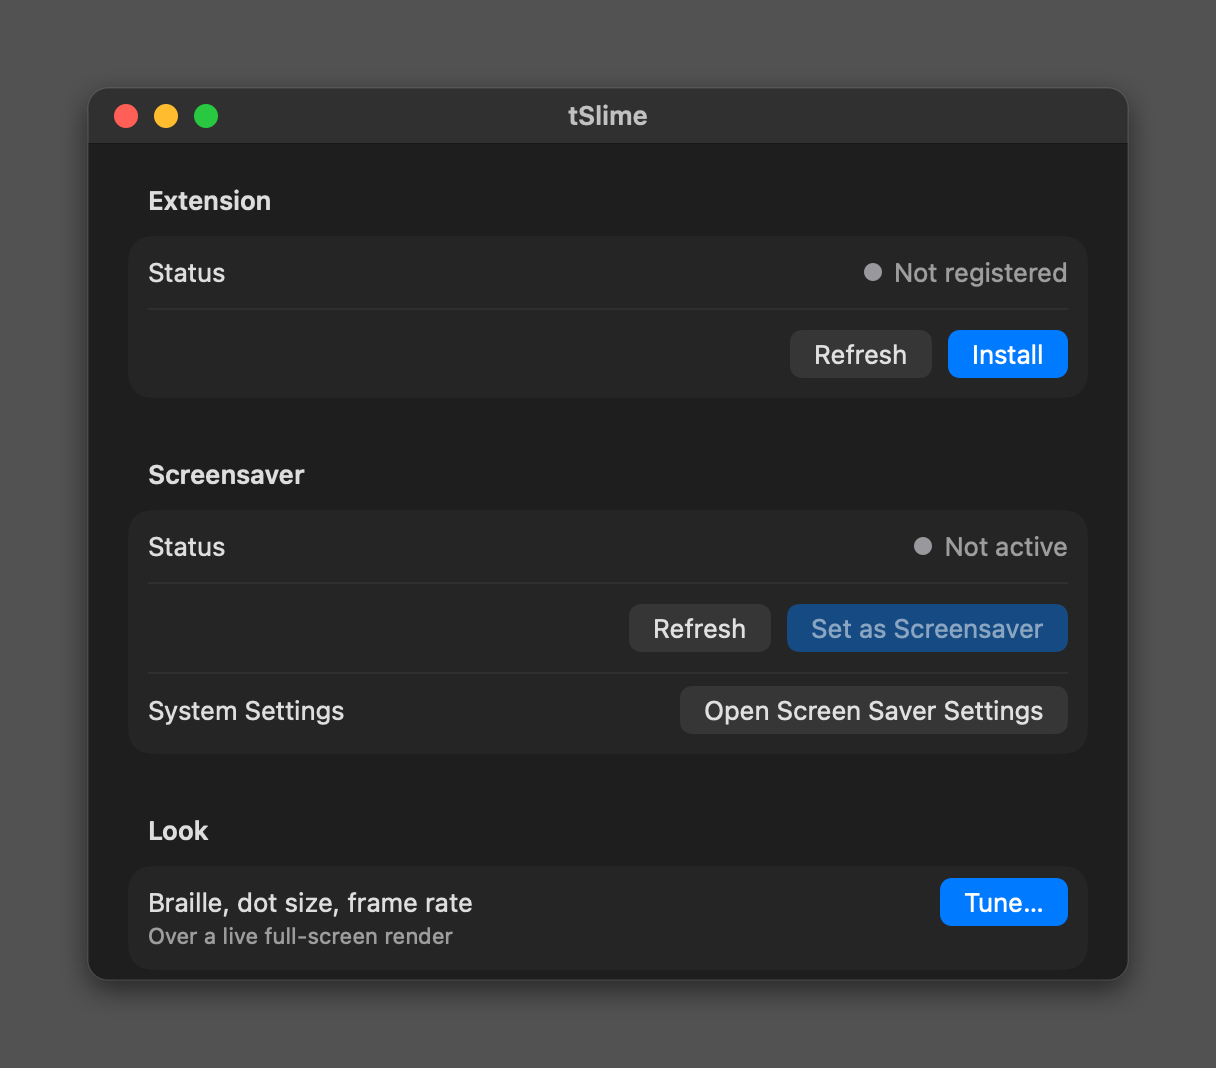
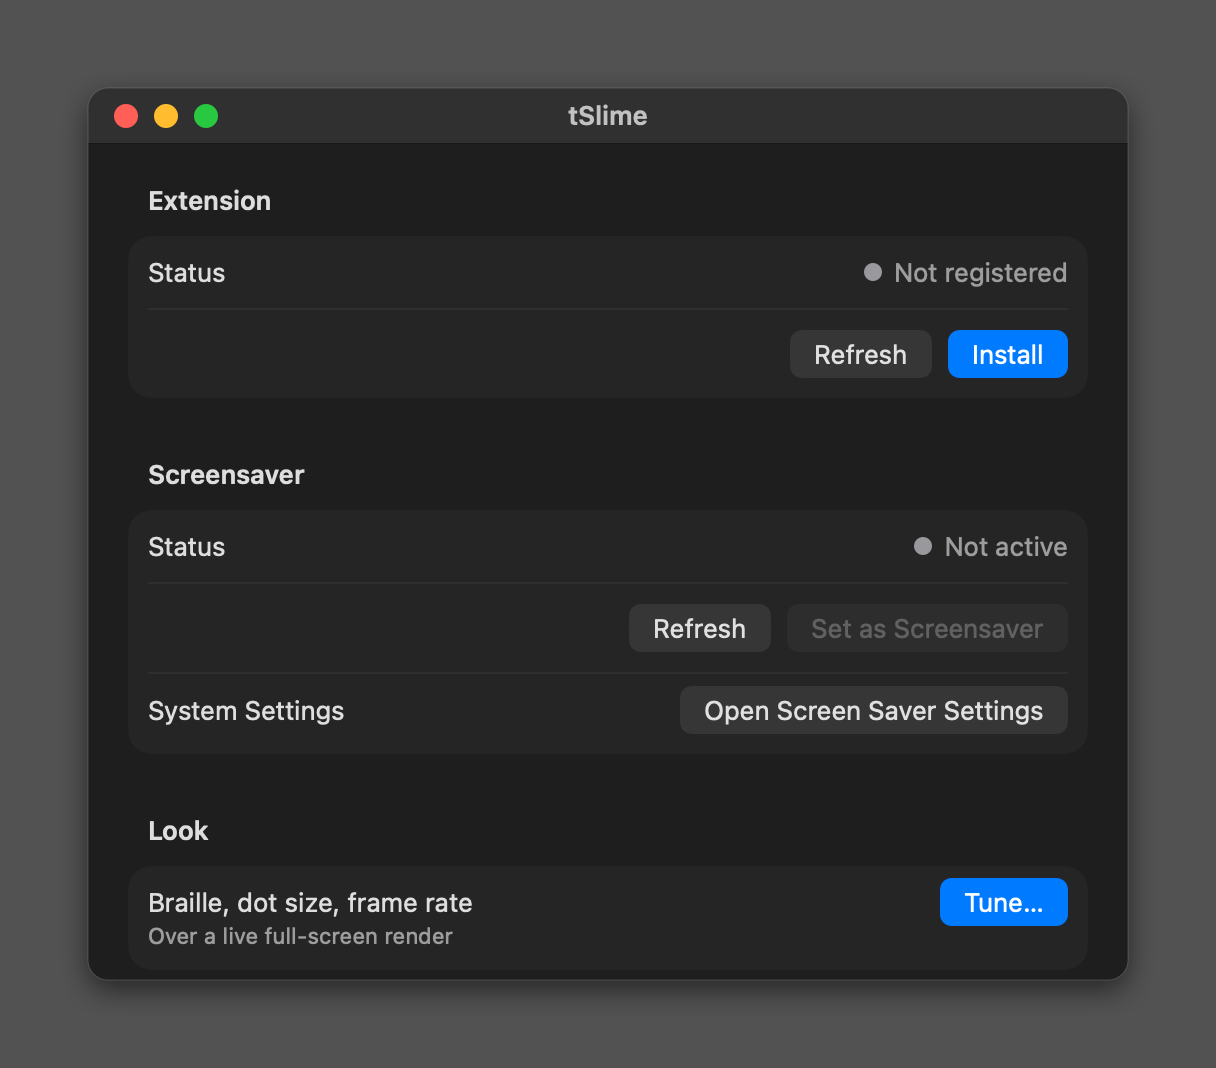
Prototype: Set as Screensaver stays plain until the extension is registered (#34)

Changed region(s): [[0.625, 0.5562, 0.875, 0.618]]

diff --git a/prototype/app-look/AppLook.swift b/prototype/app-look/AppLook.swift
@@ -1140,8 +1140,10 @@ struct DecidedGroupedForm: View {
                 HStack {
                     Spacer()
                     Button("Refresh") { stub.refresh() }
+                    // Plain until the extension is registered (#34): a dim
+                    // prominent button under a step not yet taken read wrong.
                     Button("Set as Screensaver") { stub.enable() }
-                        .buttonStyle(.borderedProminent)
+                        .buttonStyle(s.isInstalled)
                         .disabled(!s.isInstalled || s.isActive || stub.busy)
                 }
                 LabeledContent("System Settings") {
